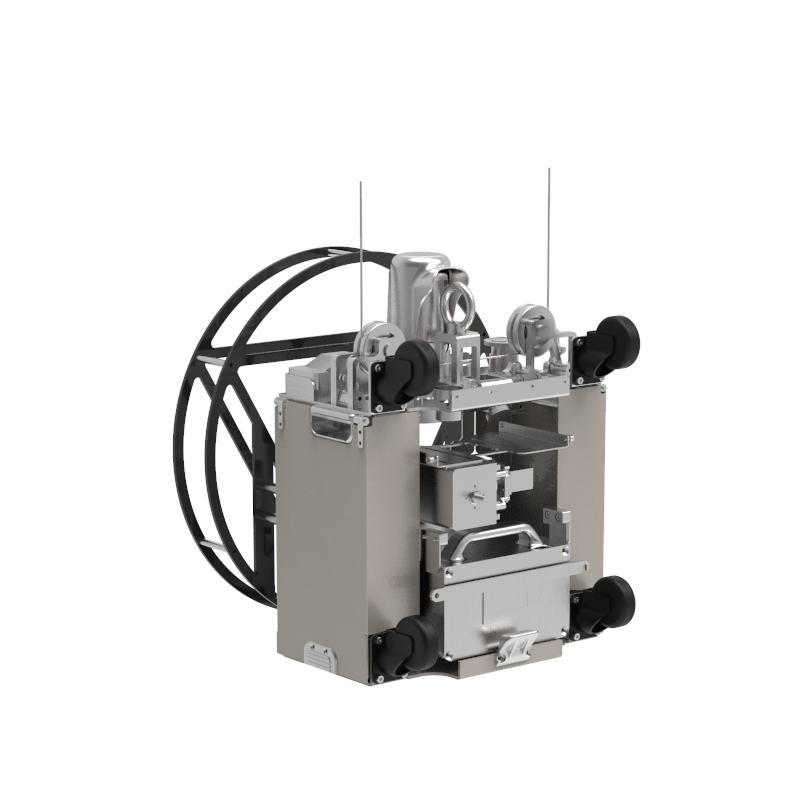
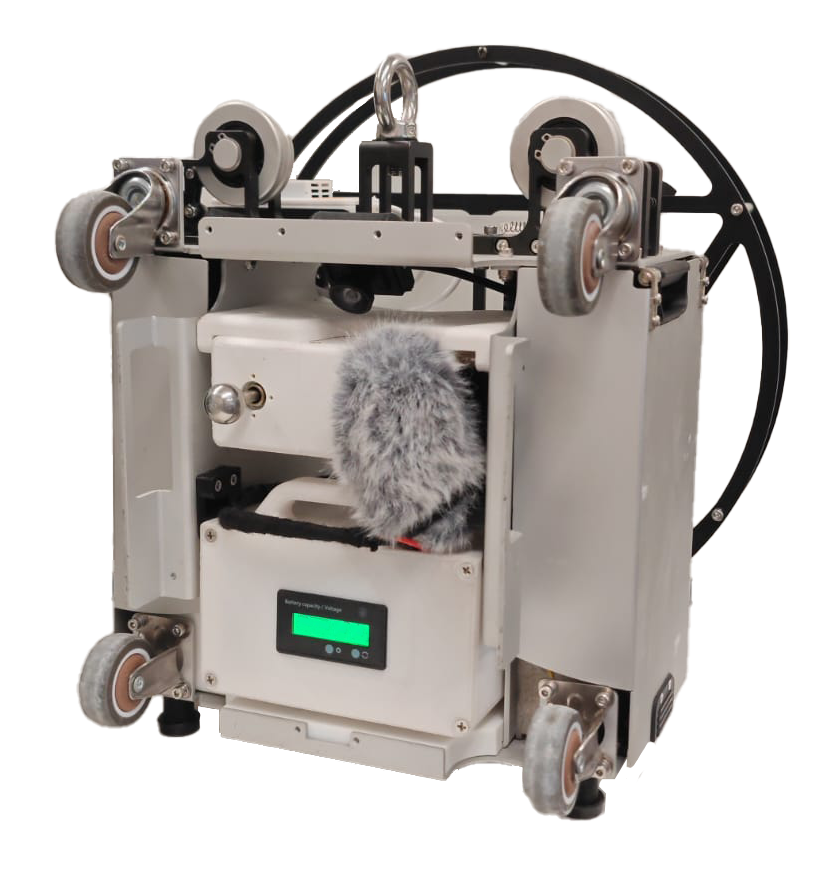
change painter img

diff --git a/src/pages/RoboPainter.js b/src/pages/RoboPainter.js
@@ -4,7 +4,7 @@ import Box from "@mui/material/Box";
 import { styled } from "@mui/material/styles";
 import { List, ListItem, ListItemText } from "@mui/material";
 
-import RoboPainterImg from "../images/productsPage/product2.png";
+import RoboPainterImg from "../images/productsPage/product2.jpg";
 
 import highlights from "../data/painterPageHighlights";
 import painterCases from "../data/painterPageCases";

diff --git a/src/pages/Products.js b/src/pages/Products.js
@@ -96,7 +96,7 @@ function Products(props) {
                   }}
             >
                 {prodictList.map((product) => (
-                    <Grid size={{xs:12, sm:6, md:6, lg:6, xl:6}}
+                    <Grid size={{xs:12, sm:3, md:3, lg:3, xl:3}}
                           sx={{
                               display: 'flex',
                               alignItems: 'center',

diff --git a/src/data/productsPageList.js b/src/data/productsPageList.js
@@ -1,5 +1,5 @@
 import TapperImg from "../images/productsPage/product1.png";
-import PainterImg from "../images/productsPage/product2.png";
+import PainterImg from "../images/productsPage/product2.jpg";
 
 const productList = [
     {
